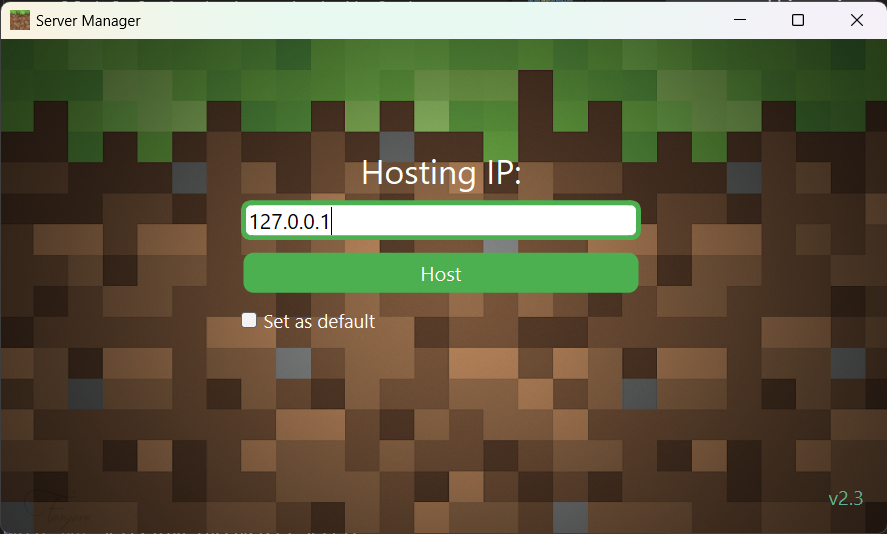
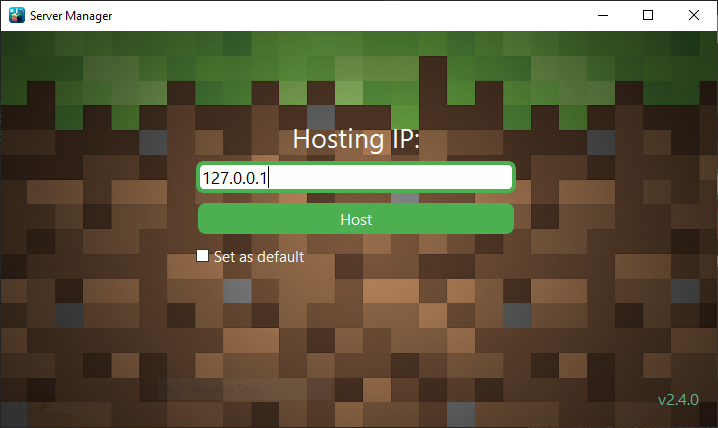
cleaning up, production ready

diff --git a/manager_host.py b/manager_host.py
@@ -21,7 +21,7 @@ import file_funcs
 import websock_mgmt
 import html
 
-TESTING = True
+TESTING = False
 VERSION = "v2.4.0"
 
 if TESTING:
@@ -299,6 +299,7 @@ class ServerManagerApp(QMainWindow):
         dropdown_layout.addWidget(self.dropdown)  # Dropdown for start options
         dropdown_layout.addWidget(self.world_version_label)
         functions_layout.addLayout(dropdown_layout, 1, 1, 2, 1, alignment=Qt.AlignmentFlag.AlignCenter)
+        functions_layout.setColumnStretch(1, 1)
 
         functions_layout.addWidget(self.stop_button, 2, 0, 1, 1)  # Spanning two columns
         functions_layout.addWidget(separator, 3, 0, 1, 2)
@@ -580,6 +581,7 @@ class ServerManagerApp(QMainWindow):
         self.new_world_name_edit.setObjectName("lineEdit")
         self.new_world_name_edit.setPlaceholderText("World Name")
         self.new_world_name_edit.hide()
+        self.new_world_name_edit.setMaxLength(32)
         self.new_world_seed_edit = QLineEdit("")
         self.new_world_seed_edit.setObjectName("lineEdit")
         self.new_world_seed_edit.setPlaceholderText("(Optional) World Seed")
@@ -1914,6 +1916,7 @@ class ServerManagerApp(QMainWindow):
             self.is_fabric_check.setChecked(False)
             self.gamemode_dropdown.setCurrentText("Survival")
             self.difficulty_dropdown.setCurrentText("Normal")
+            self.level_type_dropdown.show()
             self.level_type_dropdown.setCurrentText("Normal")
         else:
             self.add_existing_world_button.show()
@@ -1927,7 +1930,7 @@ class ServerManagerApp(QMainWindow):
             self.is_fabric_check.setChecked(False)
             self.gamemode_dropdown.setCurrentText("Survival")
             self.difficulty_dropdown.setCurrentText("Normal")
-            self.level_type_dropdown.setCurrentText("Normal")
+            self.level_type_dropdown.hide()
         
         self.add_world_error.setText("")
         self.show_add_world_page()

diff --git a/manager.py b/manager.py
@@ -9,7 +9,7 @@ from PyQt6.QtWidgets import QApplication, QMainWindow, QVBoxLayout, QHBoxLayout,
 from PyQt6.QtGui import QFont, QIcon, QPixmap, QPainter, QPaintEvent
 from PyQt6.QtCore import Qt, QRect, QThread, pyqtSignal, QObject
 
-TESTING = True
+TESTING = False
 VERSION = "v2.4.0"
 
 if TESTING:
@@ -518,7 +518,7 @@ class ServerManagerApp(QMainWindow):
             return
         
         for player in players:
-            self.players_info_box.append(f"<font color='blue'>{player}</font>")
+            self.players_info_box.append(f"<font color='purple'>{player}</font>")
     
     def set_worlds_list(self, worlds):
         self.worlds.clear()

diff --git a/websock_mgmt.py b/websock_mgmt.py
@@ -150,7 +150,6 @@ class MgmtBus(QObject):
                 time_waited += 2
     
     def handle_received(self, recvd):
-        print(recvd)
         def append_log(text, fg=None, bg=None):
             safe = html.escape(text).replace("\n", "<br>")
             if fg or bg:

diff --git a/README.md b/README.md
@@ -2,91 +2,62 @@
 ***Peter Vanderhyde, 2024***
 
 ## Description
-This is a Java Minecraft server manager that allows for basic control of the server being run on a host's machine by the host and others on the same network. If the host has multiple server worlds available on their machine, clients can select a world to run. It will even handle worlds that are different versions or using fabric.
+This is a Java Minecraft server manager that allows for basic control of a server being run on a host's Windows machine. Anyone on the same network as the host can connect to the manager and startup worlds on the server. The host can set up multiple worlds so that clients can select which world to play in. It will even handle worlds that are different versions, different settings, or using Fabric to run mods on certain worlds.
   
 ![Manager Window](Images/window.png)
 
 ## Features
-Through this manager both the host and clients will have the ability to
-- Start an available world in the dropdown.
-- Stop or restart a currently running server.
+Through this manager both the host and clients have the ability to
+- Start the world they've selected in the dropdown.
+- Stop or the currently running server.
 - Query the current players on the server.
 - Query the current status of the server including the version and the world name.
 - Chat with others connected to the manager.
   
 The host has the ability to
-- Choose what worlds he would like the clients to be able to choose from (including worlds running fabric.)
-- Easily add or remove worlds to the available worlds list.
-- Create new worlds from scratch to be directly added to the list. Use any version, and optionally set a seed and/or set the world as using fabric.
-- Quickly backup server worlds.
-- Quick server folder and properties access.
+- Choose what worlds they would like the clients to be able to choose from (including worlds running Fabric.)
+- Add existing Minecraft worlds to the world list, or remove/delete worlds.
+- Create new worlds from scratch to be directly added to the list. Use any version/snapshot, gamemode, difficulty, world preset, and optionally set a seed. A world can also be signified as a Fabric world that will run any mods in the world's mod folder.
+  > **Note**:  
+  Newly created worlds do not generate any world files until their first time being run.
+- Easily backup server worlds.
+- Quickly access each world's mods folder.
+- Directly edit each world's properties in the GUI
+
+### Extra Features
+For all versions starting at snapshot 25w35a (1.21.9), servers provide an API to receive notifications from the server, and also to send commands to the server. This means there are more features available for those worlds.
+- The host and clients automatically receive updates when players join and leave the server without having to refresh.
+- The host can click player's names in the list to perform specific actions on them such as whitelisting, kicking, etc.
+- The host is informed each time the whitelist, ban, or op status of a player changes.
 
 ## Host Instructions
-If you are hosting the server on your computer, you must have your manager_host program running for others to be able to control the server. You will need the latest Java Runtime (JRE) in order to run the server, so download one if you do not already have it. Different versions require different minimum JRE versions. You can download the latest JRE from [Adoptium Temurin](https://www.adoptium.net/temurin/releases/).
-  
-### Step 1
-**<u>\*Optional\* Creating the Server Folder</u>**  
-If you wish to manually create a server folder for the program, you will need to download a `server.jar` file to execute. [MCVersions.Net](https://mcversions.net/) is the simplest place to find any server version. If you need instructions on how to set up the server, there are several resources online that you can easily find.
+If you are hosting the server on your computer, you must have your `manager_host` program running for others to be able to control the server. You will need the latest Java Runtime (JRE) in order to run the server, so download one if you do not already have it. Different versions require different minimum JRE versions. You can download the latest JRE from [Adoptium Temurin](https://www.adoptium.net/temurin/releases/).  
+>**MAKE SURE** you are downloading the **JRE** version, not the **JDK !!**
 
-### Step 2
-**<u>Initial Startup</u>**  
-Run the `Host_manager.exe` file. The first time you run the manager, it will prompt you to enter the path of the server folder. This can either be the server folder you created in the previous optional step, or you can let the program download and run the latest server file automatically.  
+
+### Initial Startup
+Run the `Host_manager.exe` file.  
+The first time you run the manager, it will prompt you to enter the path of the server folder.  
+Create an empty folder somewhere and select `Browse` to navigate to it.  
+Once you hit `Create New`, the program will automatically download the latest server.jar and begin setting up the server folder automatically.  
+After the folder is setup, you will be prompted to accept the EULA and enter the IP address to host the server on.
 ![Server Path Prompt Image](Images/server_path.png)  
-If you set up the folder automatically, it will also prompt you to accept the eula.txt.  
+
+### Accept the EULA
 ![EULA Image](Images/eula.png)  
-Your manager is now ready to start hosting a server, but first it will prompt you to enter the hosting ip. This is what the clients will use to connect.  
+### Hosting IP
 ![IP Prompt Image](Images/ip.png)  
-If you set an IP as the default, it will attempt to use that IP address on startup without ever prompting you again.
+
+### Joining the Server
+![Joining Image](Images/joining.PNG)  
   
-Once you have run the program, it will have created a file called `manager_settings.json`. Inside this settings file, it will save the IP you are hosting from (defaults to localhost), the displayed names of the clients connecting to your manager, the server path, and will store the names of the server worlds you choose. 
-
-#### Example manager_settings.json
-``` json
-{
-    "ip":"127.0.0.1",
-    "names":{},
-    "server folder": {
-        "path": "C:\\server\\path\\here",
-        "worlds": {
-            "Time to Shhweep": {
-                "version": "1.18.2"
-            },
-            "Hardcore Parkour": {
-                "version": "1.20.4",
-                "fabric": true
-            },
-            "Sir Vive Al of South Blockington": {
-                "version": "1.19.1"
-            }
-        }
-    }
-}
-```
-
-### Host Functionality
-**<u>Changing the Host IP</u>**  
-If you wish to change the ip that you are hosting from but you have already set a default IP, you can change the IP being used at any time with the `Change IP` button in the top left corner.
-
-**<u>Adding a World</u>**  
-In order to add a world to the manager, you can either generate a new world, or use an existing world folder.
-
-#### Using an Existing World
-Place the world folder in the `worlds` directory created in your server directory. Next, go to `World Options` in the manager and hit `Add Existing`. If this world has been used in the manager in the past, the version number should default to the previous version set. Otherwise, you can select the correct version for the world. Optionally, mark whether it is a fabric server or not.
-
-> Note:  
-Setting the world to a higher version than it was created in will likely successfully upgrade the world to a higher version (not guaranteed, though). However, it will never be able to be downgraded again. If you wish to do this, creating a backup of the world first may be recommended.  
-
-After you have added the new world, it will automatically update the list of worlds for yourself and all clients.
-
-#### Generating a New World
-Go to the `World Options` in the manager and hit `Create New World`. Enter the world name, a version, a seed (optional), and specify if it is a fabric server. Once you hit `Create World`, the world will be added to the list. However, the world itself will not be generated until the first time the server starts the world.
-
-#
+To join the server world, clients must direct connect to the host's IP address.
   
-You can add as many worlds as you would like to the worlds folder. The manager will run each of them in their own version.
+### Adding Worlds
+You can add/create as many worlds as you would like to. The manager will run each of them in their own version. You can mix and match Fabric servers as well. The manager will download the appropriate fabric-server.jar to run.  
+When adding an existing world, place the world folder in the `worlds` folder located in the server folder. Inside the manager, go to `World Manager`, `Add Existing`, and select the world folder in the file explorer. Select the correct version and any desired settings.
 
-### Step 4
-**<u>\*Optional\* Customizing the Batch File</u>**  
-There are several arguments that can be given in the server run command such as defining memory space for the server, etc. Feel free to add any extra arguments to the `run.bat` file command. If the run batch file has not already been created, the program will create it upon starting a world. 
+## **\*Optional\* Customizing the Batch File**  
+There are several extra options that can be given in the server run command such as defining memory space for the server. Feel free to add any extra arguments to the `run.bat` file found in the server folder. If the run batch file has not already been created, the program will create it upon starting a world. 
 
 ### You're all set now. Enjoy!
